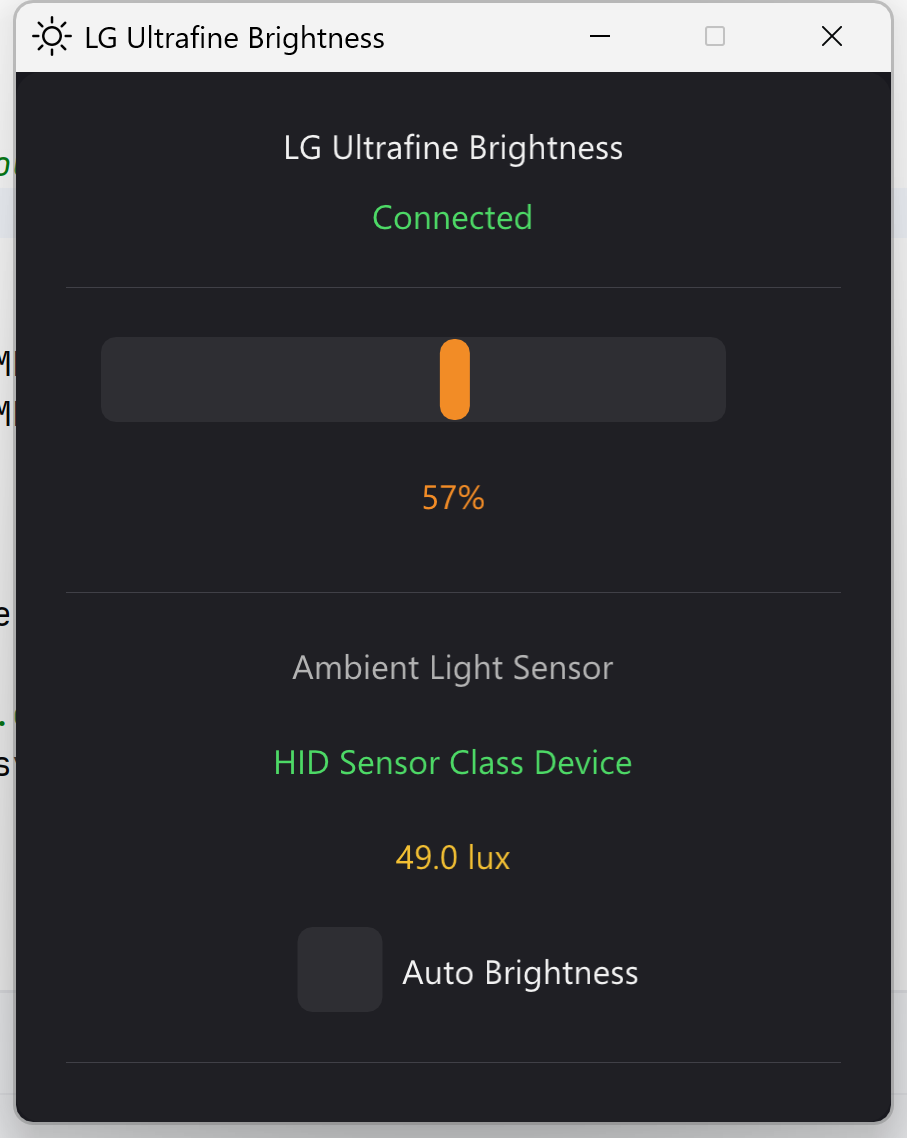
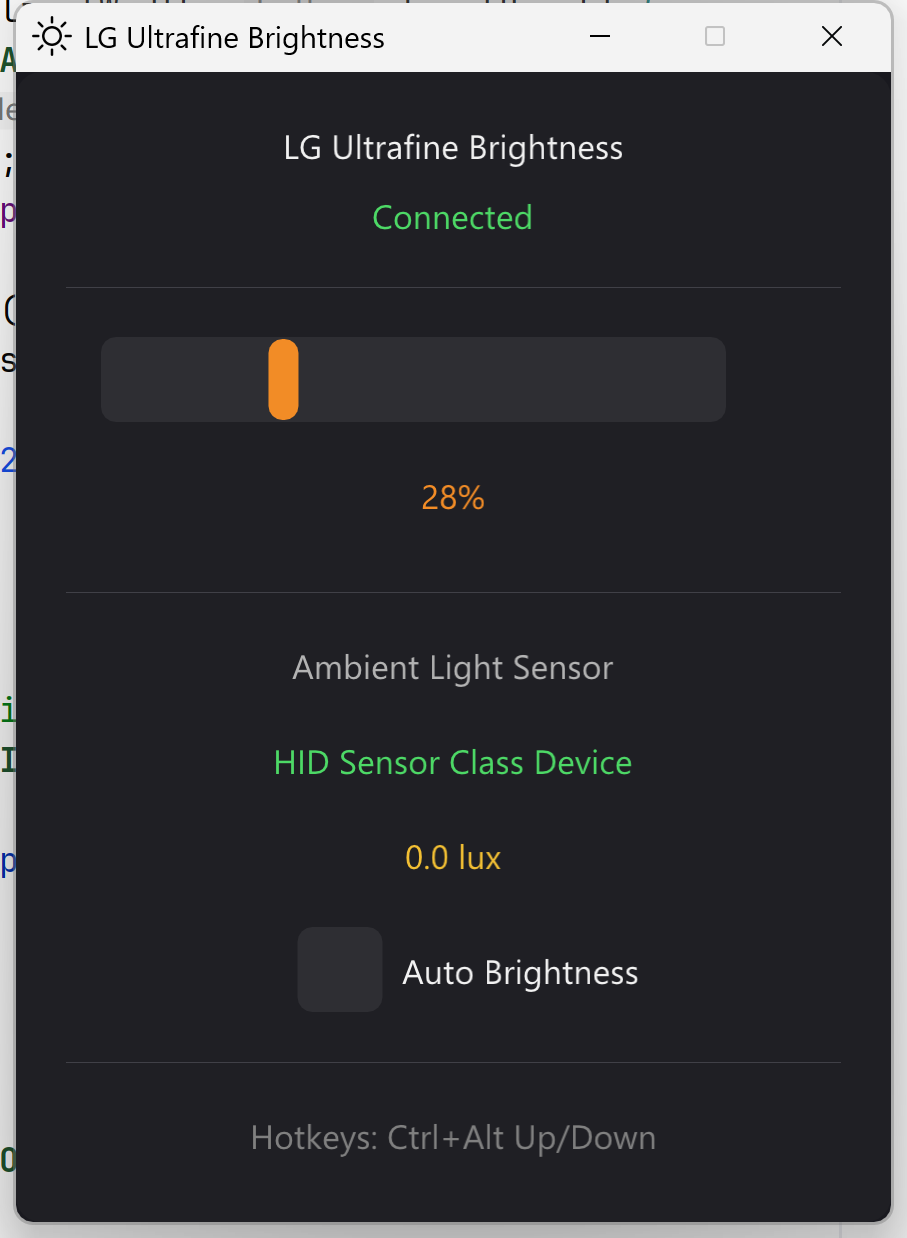
fix ui issues

diff --git a/src/app.cpp b/src/app.cpp
@@ -97,7 +97,7 @@ bool Application::createWindow(HINSTANCE hInstance) {
 
     // Calculate DPI-scaled client area size
     int clientWidth = static_cast<int>(350 * dpiScale);
-    int clientHeight = static_cast<int>(420 * dpiScale);
+    int clientHeight = static_cast<int>(460 * dpiScale);
 
     // Adjust for window frame and title bar
     RECT rect = { 0, 0, clientWidth, clientHeight };

diff --git a/src/ui.cpp b/src/ui.cpp
@@ -415,7 +415,7 @@ void UIRenderer::renderMainUI() {
 
     // Hotkey info
     {
-        const char* info = "Hotkeys: Ctrl+Volume Up/Down";
+        const char* info = "Hotkeys: Ctrl+Alt Up/Down";
         float textWidth = ImGui::CalcTextSize(info).x;
         ImGui::SetCursorPosX((windowWidth - textWidth) * 0.5f);
         ImGui::TextColored(ImVec4(0.5f, 0.5f, 0.5f, 1.0f), "%s", info);
